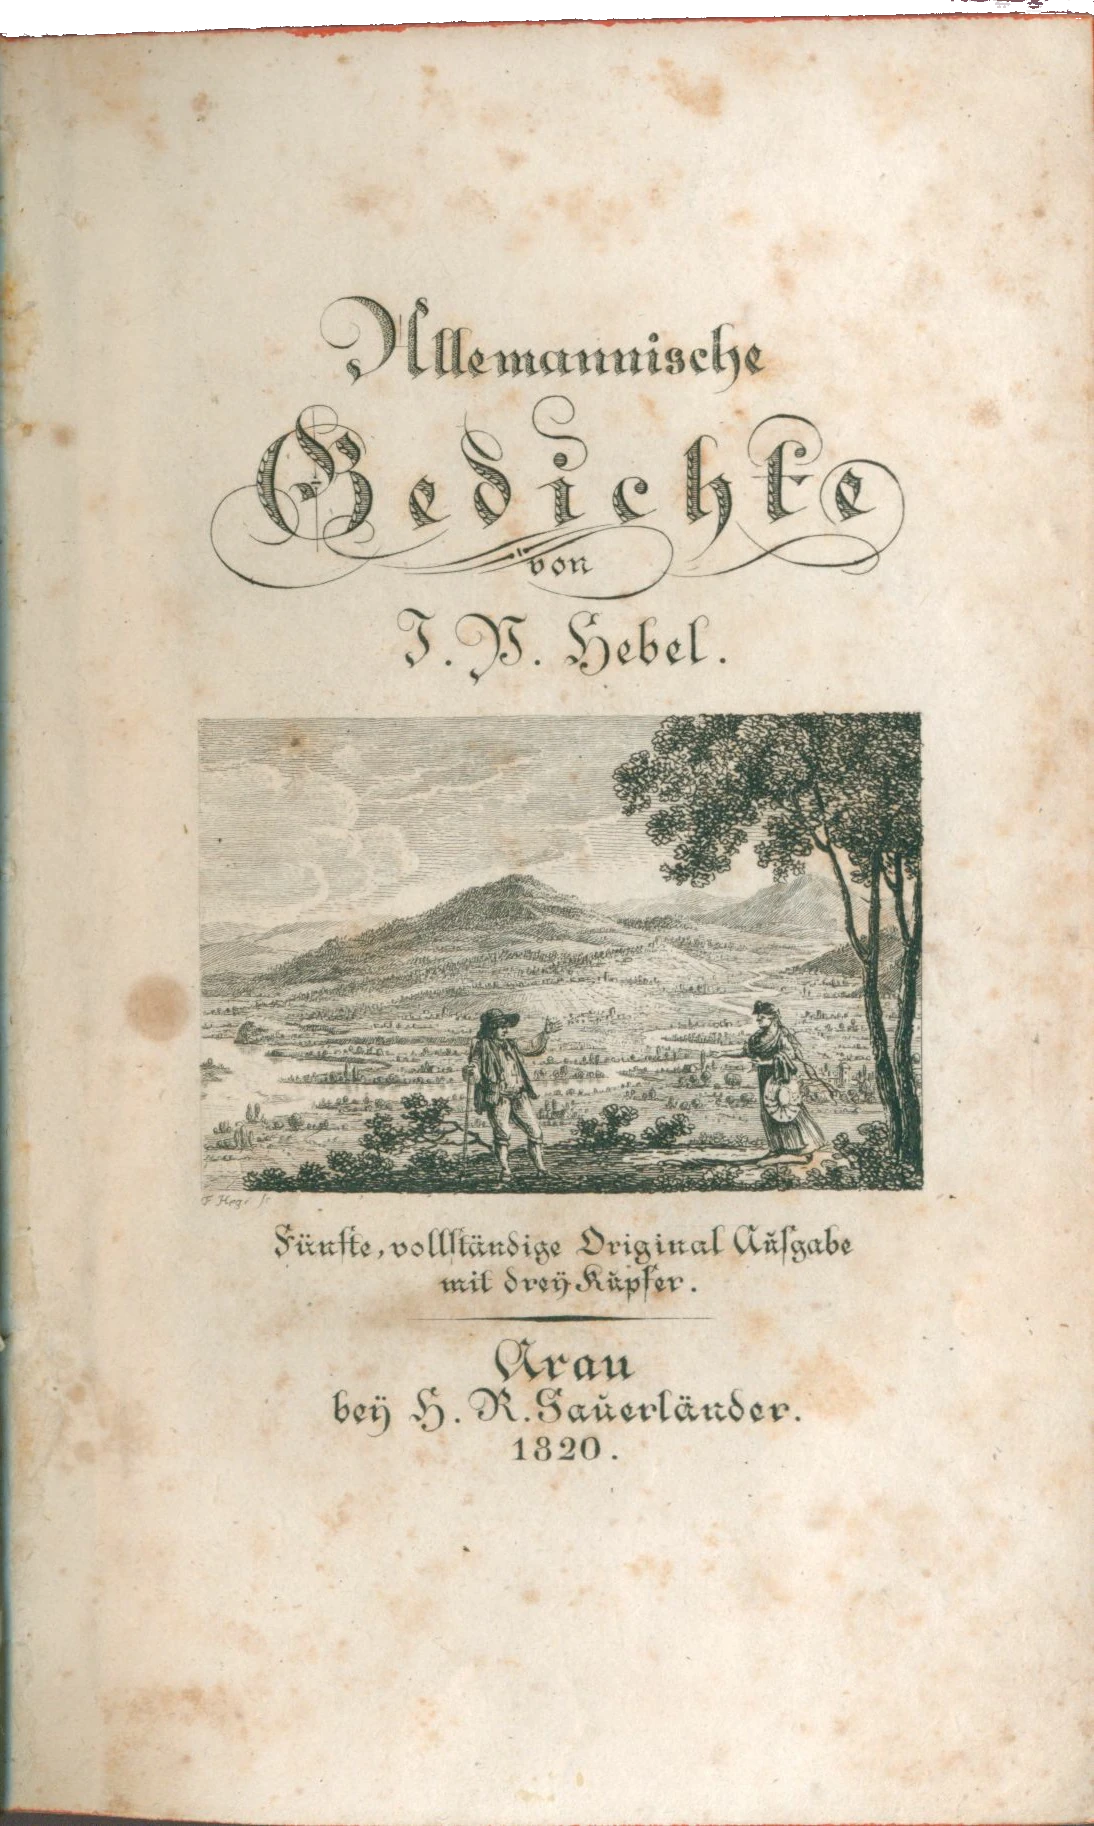
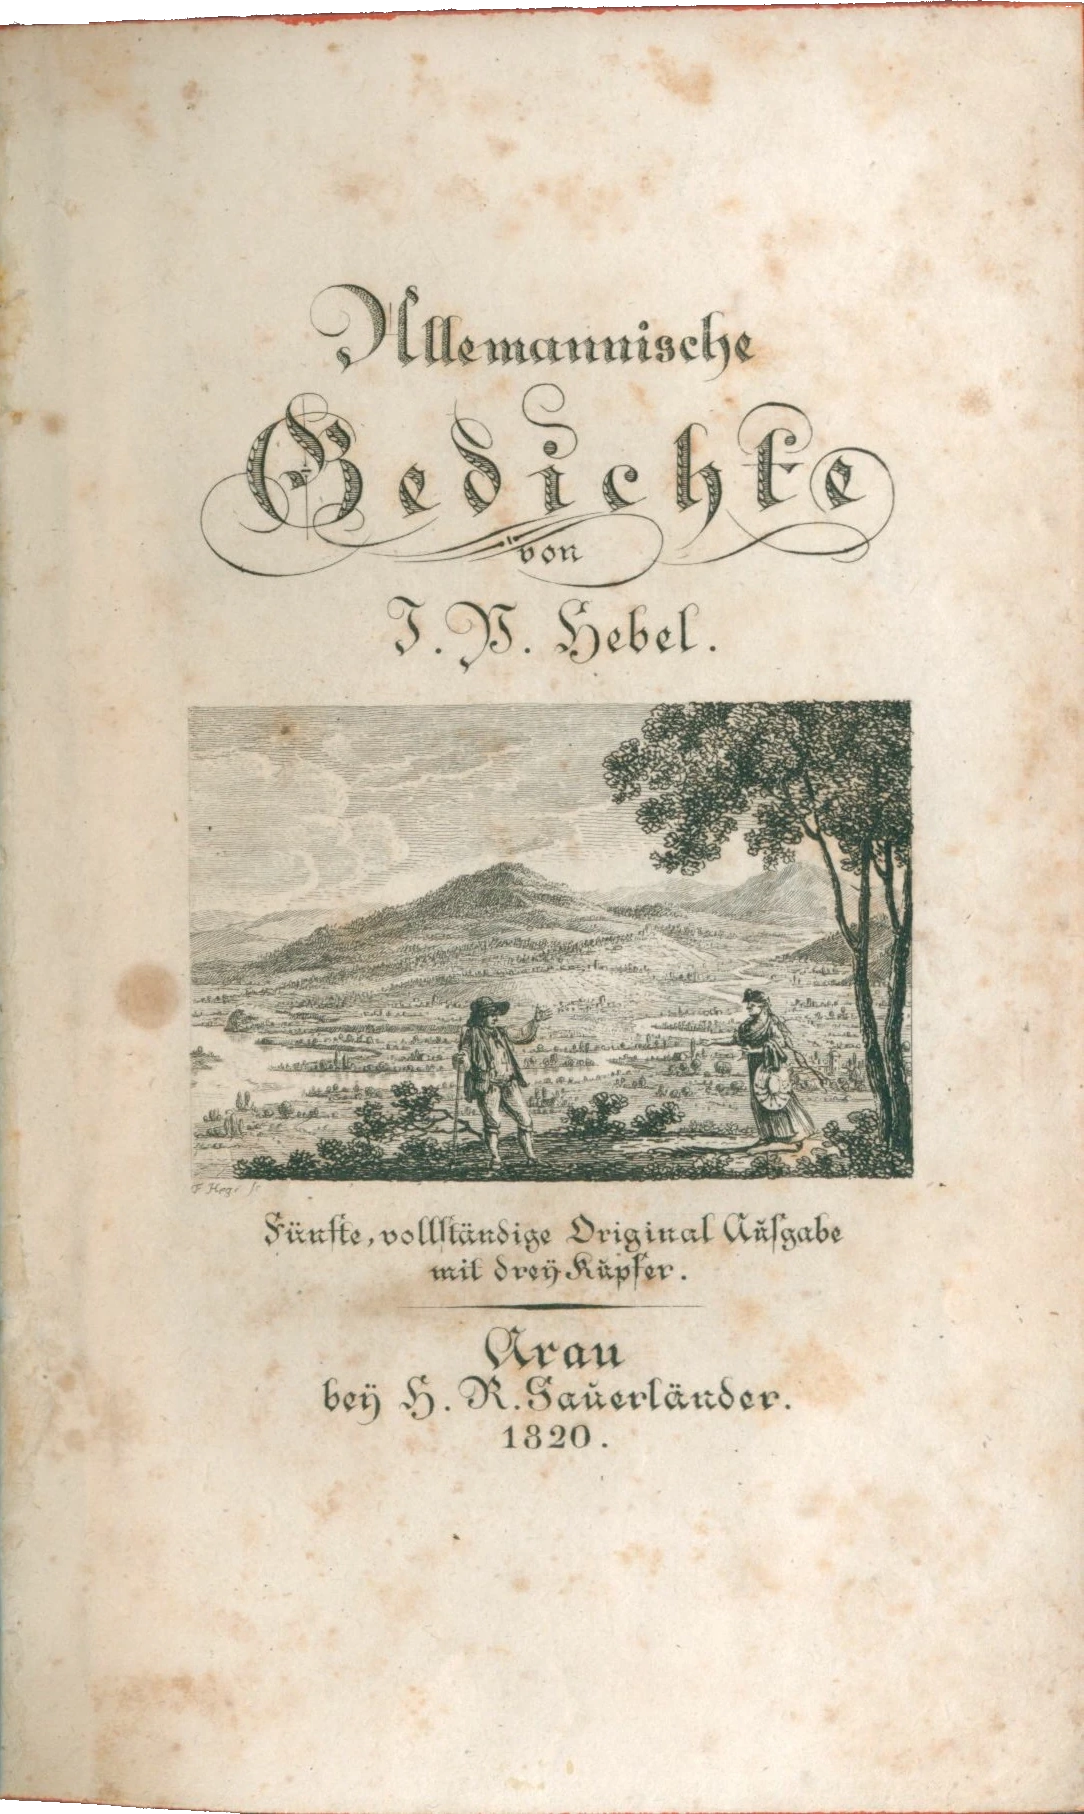
FIX: Kaptel 2 Bildunterschriften

diff --git a/src/content/objects/carfunkel-satzmanuskript.md b/src/content/objects/carfunkel-satzmanuskript.md
@@ -1,15 +1,19 @@
 ---
-quelle: "[Hebel, Johann Peter]: [eigenhändiges Satzmanuskript des *Carfunkel*], [S. 9]. Badische Landesbibliothek Karlsruhe, Sign. K 3357 (vormals K 57 bzw. K 57 I)."
+quelle: "[Hebel, Johann Peter]: [eigenhändiges Satzmanuskript des *Carfunkel*], [S. 9 und 15]. Badische Landesbibliothek Karlsruhe, Sign. K 3357 (vormals K 57 bzw. K 57 I)."
 materialTechnik: "Eigenhändiges Satzmanuskript; Klebung mit Lackstreifen"
-slug: "carfunkel-satzmanuskript-seite-9"
-titel: "Eigenhändiges Satzmanuskript des *Carfunkel*, neunte Seite"
+slug: "carfunkel-satzmanuskript"
+titel: "Eigenhändiges Satzmanuskript des *Carfunkel*"
 urheber: "Johann Peter Hebel"
 datierung: "1802"
 institution: "Badische Landesbibliothek Karlsruhe"
 inventarnummer: "Sign. K 3357 (vormals K 57 bzw. K 57 I)"
 bilder:
   - bild: "Bilder/2-1/2.1_07_03_Carfunkel_H2_BLB.webp"
-    objektReihenfolge: 1
     inObjektansicht: false
   - bild: "AG_07_03a_Carfunkel_H2_herausgeschnitten"
+  - bild: "AG_07_03b_Carfunkel_H2_eingeklebt"
 ---
+
+# Beschreibung
+
+9\. und 15. Seite

diff --git a/src/content/galleries/2-1-06-feilen-bis-zum-schluss.md b/src/content/galleries/2-1-06-feilen-bis-zum-schluss.md
@@ -2,11 +2,11 @@
 titel: "Feilen bis zum Schluss"
 folienbeschriftungen:
   - folie: 1
-    beschriftung: "De- und Rekomposition, Umsortieren. Seiten aus der eigenhändigen Satzvorlage von *Freude in Ehren* und *Irrlichtern*."
+    beschriftung: "De- und Rekomposition, Umsortieren."
     unterbeschriftungen:
       - "Johann Peter Hebel, 1802, Autograph, Badische Landesbibliothek Karlsruhe"
   - folie: 2
-    beschriftung: "De- und Rekomposition, Aussortieren. Seiten aus der eigenhändigen Satzvorlage von *Jenner* und *Spinne*. Lithographie von Julius Nisle zum *Geisterbesuch auf dem Feldberg*."
+    beschriftung: "De- und Rekomposition, Aussortieren."
     unterbeschriftungen:
       - "Johann Peter Hebel, 1802, Autograph, Badische Landesbibliothek Karlsruhe; Julius Nisle, [1845], Lithographie, Hebel-Archiv Heidelberg"
 bilder:

diff --git a/src/content/galleries/2-1-02-die-anfaenge.md b/src/content/galleries/2-1-02-die-anfaenge.md
@@ -8,7 +8,7 @@ folienbeschriftungen:
     unterbeschriftungen:
       - "Johann Peter Hebel (Autor), 1801, unbekannter Abschreiber/unbekannte Abschreiberin, frühes 19. Jahrhundert (Manuskript), Badische Landesbibliothek Karlsruhe"
   - folie: 3
-    beschriftung: "Brief an Hitzig vom 6. Februar [1801] sowie Abschrift von fremder alter Hand einer frühen Version des *Hexleins*. Rekonstruktion der früheren Faltung (wohl vor 1860) beider Blätter."
+    beschriftung: "Rekonstruktion der früheren Faltung (wohl vor 1860) beider Blätter."
 bilder:
   - - "21_02_1a_hebel_hitzig_meine_liebhaberey_blb"
   - - "2.1_02_02a_Hexlein_aus_Hebel_Hitzig_BLB_K_1216_01"

diff --git a/src/content/galleries/2-1-07-feilen-bis-ganz-zum-schluss.md b/src/content/galleries/2-1-07-feilen-bis-ganz-zum-schluss.md
@@ -14,7 +14,7 @@ folienbeschriftungen:
     unterbeschriftungen:
       - "Johann Peter Hebel, 1802, Autograph, Badische Landesbibliothek Karlsruhe"
   - folie: 4
-    beschriftung: "Fahnenkorrektur. Seite der eigenhändigen Satzvorlage sowie des Erstdrucks der *Marktweiber in der Stadt*."
+    beschriftung: "Fahnenkorrektur. Satzvorlage und Erstdruck."
     unterbeschriftungen:
       - "Johann Peter Hebel, 1802, Autograph, Badische Landesbibliothek Karlsruhe; Johann Peter Hebel, 1803, Hebel-Archiv Heidelberg"
 bilder:

diff --git a/src/content/objects/goethe-rezension-1805.md b/src/content/objects/goethe-rezension-1805.md
@@ -1,7 +1,7 @@
 ---
 quelle: "Johann Wolfgang Goethe, Rezension der *Allemannischen Gedichte* in der *Jenaischen Allgemeinen Literatur-Zeitung* (1805)"
 slug: "goethe-rezension-1805"
-titel: "Rezension der *Allemannischen Gedichte* in der *Jenaischen Allgemeinen Literatur-Zeitung*"
+titel: "Goethes Rezension der *Allemannischen Gedichte* in der *Jenaischen Allgemeinen Literatur-Zeitung*"
 urheber: "Johann Wolfgang von Goethe"
 datierung: "1805"
 institution: "Hebel-Archiv Heidelberg"

diff --git a/src/content/galleries/2-4-05-we-call-it-a-klassiker.md b/src/content/galleries/2-4-05-we-call-it-a-klassiker.md
@@ -3,7 +3,7 @@ titel: "We call it a Klassiker."
 folienbeschriftung: "Dasselbe Buch bei zwei Reutlinger Verlegern: Der zweite verwendet die klassizistische Antiquaschrift."
 positionsangaben: false
 bilder:
-  - - "Raubdrucke_05_1a_D5_Reutlingen1821"
+  - - "Raubdrucke_04_1b_D5_Reutlingen1821"
     - "Raubdrucke_05_1b_D5_Reutlingen1822"
 ---
 

diff --git a/src/content/galleries/2-1-01-ueberraschungserfolg.md b/src/content/galleries/2-1-01-ueberraschungserfolg.md
@@ -1,8 +1,5 @@
 ---
 titel: "Überraschungserfolg eines literarischen Debütanten"
-folienbeschriftungen:
-  - folie: 1
-    beschriftung: "Titelblatt der Erstausgabe der *Allemannischen Gedichte* und Goethes Rezension."
 bilder:
   - - "2.1_01_1a_AG_1803_Titelblatt_TSS"
     - "2.1_01_02_Goethe_ALZ_01"
